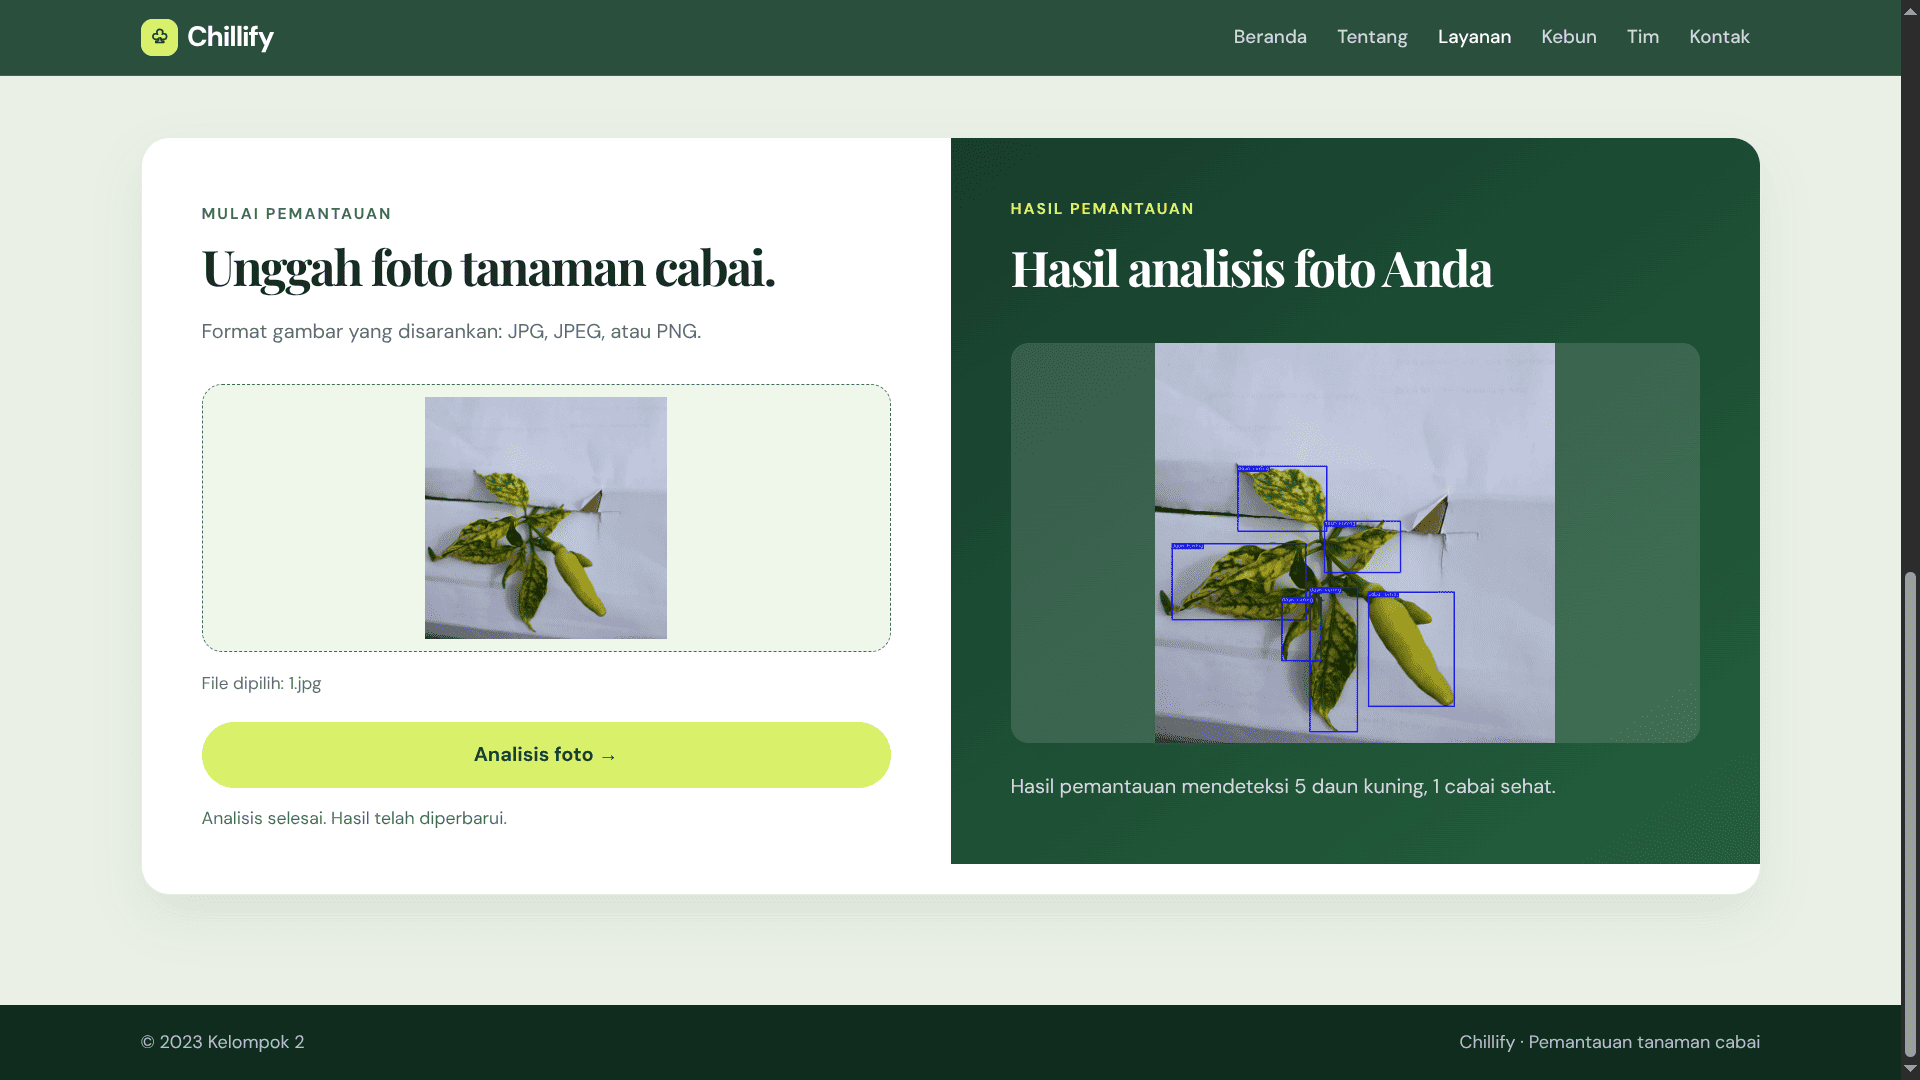
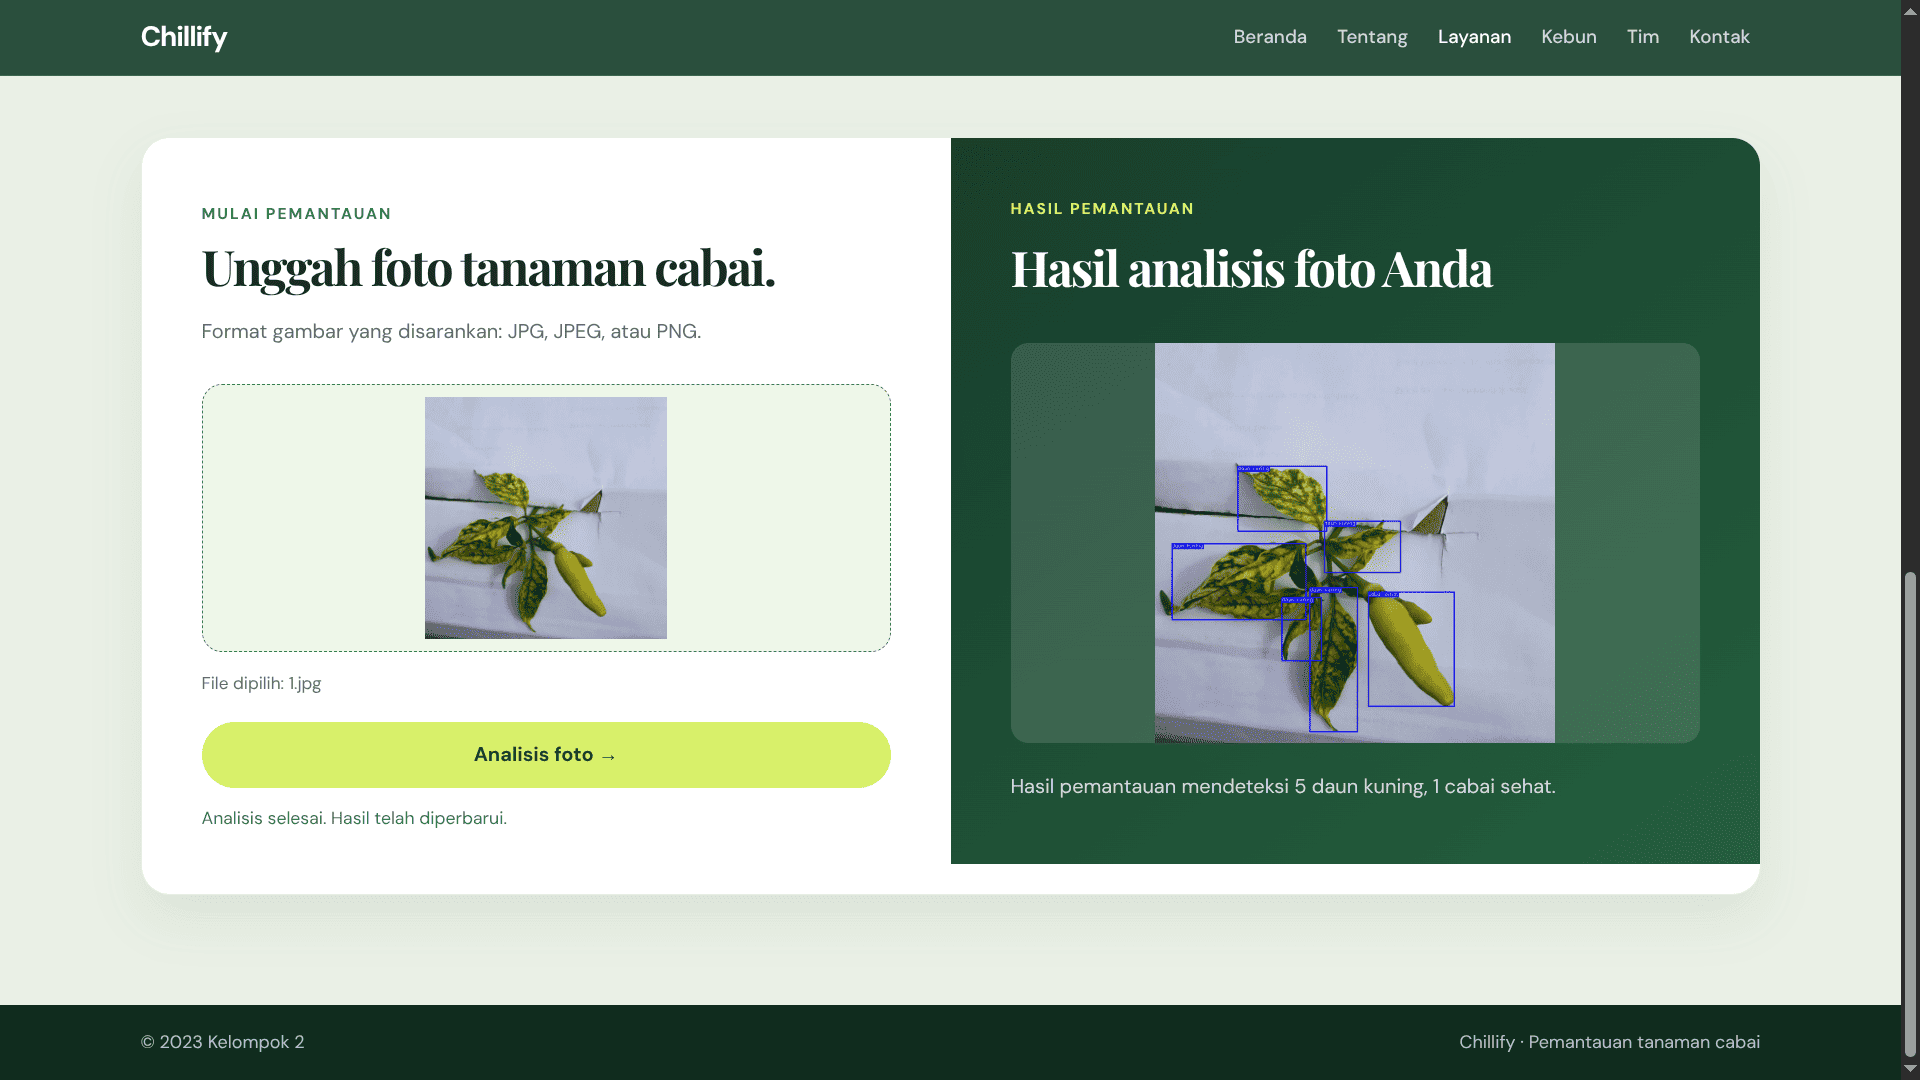
np6

diff --git a/templates/index.html b/templates/index.html
@@ -91,7 +91,7 @@
   <body>
     <nav class="navbar navbar-expand-lg navbar-dark fixed-top">
       <div class="container">
-        <a class="navbar-brand d-flex align-items-center" href="{{ url_for('index') }}"><span class="brand-mark" aria-hidden="true">♧</span>Chillify</a>
+        <a class="navbar-brand d-flex align-items-center" href="{{ url_for('index') }}">Chillify</a>
         <button class="navbar-toggler" type="button" data-bs-toggle="collapse" data-bs-target="#mainNavigation" aria-controls="mainNavigation" aria-expanded="false" aria-label="Buka navigasi"><span class="navbar-toggler-icon"></span></button>
         <div class="collapse navbar-collapse" id="mainNavigation">
           <ul class="navbar-nav ms-auto gap-lg-2">

diff --git a/templates/kebun.html b/templates/kebun.html
@@ -16,7 +16,7 @@
     </style>
   </head>
   <body>
-    <nav class="navbar navbar-expand-lg navbar-dark fixed-top"><div class="container"><a class="navbar-brand d-flex align-items-center" href="{{ url_for('index') }}"><span class="brand-mark" aria-hidden="true">♧</span>Chillify</a><button class="navbar-toggler" type="button" data-bs-toggle="collapse" data-bs-target="#mainNavigation" aria-controls="mainNavigation" aria-expanded="false" aria-label="Buka navigasi"><span class="navbar-toggler-icon"></span></button><div class="collapse navbar-collapse" id="mainNavigation"><ul class="navbar-nav ms-auto gap-lg-2"><li class="nav-item"><a class="nav-link" href="{{ url_for('index') }}">Beranda</a></li><li class="nav-item"><a class="nav-link" href="{{ url_for('tentang') }}">Tentang</a></li><li class="nav-item"><a class="nav-link" href="{{ url_for('layanan') }}">Layanan</a></li><li class="nav-item"><a class="nav-link active" aria-current="page" href="{{ url_for('kebun') }}">Kebun</a></li><li class="nav-item"><a class="nav-link" href="{{ url_for('tim') }}">Tim</a></li><li class="nav-item"><a class="nav-link" href="{{ url_for('kontak') }}">Kontak</a></li></ul></div></div></nav>
+    <nav class="navbar navbar-expand-lg navbar-dark fixed-top"><div class="container"><a class="navbar-brand d-flex align-items-center" href="{{ url_for('index') }}">Chillify</a><button class="navbar-toggler" type="button" data-bs-toggle="collapse" data-bs-target="#mainNavigation" aria-controls="mainNavigation" aria-expanded="false" aria-label="Buka navigasi"><span class="navbar-toggler-icon"></span></button><div class="collapse navbar-collapse" id="mainNavigation"><ul class="navbar-nav ms-auto gap-lg-2"><li class="nav-item"><a class="nav-link" href="{{ url_for('index') }}">Beranda</a></li><li class="nav-item"><a class="nav-link" href="{{ url_for('tentang') }}">Tentang</a></li><li class="nav-item"><a class="nav-link" href="{{ url_for('layanan') }}">Layanan</a></li><li class="nav-item"><a class="nav-link active" aria-current="page" href="{{ url_for('kebun') }}">Kebun</a></li><li class="nav-item"><a class="nav-link" href="{{ url_for('tim') }}">Tim</a></li><li class="nav-item"><a class="nav-link" href="{{ url_for('kontak') }}">Kontak</a></li></ul></div></div></nav>
     <main>
       <section class="hero"><div class="container"><div class="hero-content"><p class="eyebrow">Ruang belajar kebun</p><h1>Rawat cabai dari kebun, untuk hasil yang lebih baik.</h1><p class="hero-copy">Temukan panduan ringkas budidaya, kenali gejala umum pada tanaman, dan dapatkan inspirasi dari kebun cabai.</p><a class="btn btn-lime" href="#panduan">Lihat panduan <span aria-hidden="true">↓</span></a></div></div></section>
       <section id="panduan"><div class="container"><div class="row g-5 align-items-center"><div class="col-lg-6"><span class="section-label">Panduan budidaya</span><h2>Dasar perawatan cabai yang perlu diperhatikan.</h2><p class="section-copy">Mulai dengan langkah sederhana untuk membantu tanaman cabai tumbuh sehat dan produktif.</p><ol class="guide-list"><li><span class="list-number">1</span><span>Pilih varietas cabai yang sesuai dengan iklim dan kondisi tanah di lokasi Anda.</span></li><li><span class="list-number">2</span><span>Siapkan lahan yang subur dengan drainase baik, lalu tanam bibit pada jarak yang cukup.</span></li><li><span class="list-number">3</span><span>Berikan air dan pupuk secara teratur sesuai kebutuhan, tanpa membuat tanah terlalu basah.</span></li><li><span class="list-number">4</span><span>Amati tanaman secara rutin agar hama atau penyakit dapat diketahui lebih awal.</span></li><li><span class="list-number">5</span><span>Panen cabai ketika buah telah mencapai tingkat kematangan yang diinginkan.</span></li></ol></div><div class="col-lg-6"><div class="video-card"><iframe src="https://www.youtube.com/embed/De1RKJ8dAhw?si=vKP0wTq81WaESM9f" title="Panduan budidaya cabai" allowfullscreen></iframe><div class="video-caption">Butuh panduan lebih lengkap? Kunjungi <a href="https://kumparan.com/nanda-dc/panduan-cara-budidaya-cabai-untuk-pemula-lengkap/full" target="_blank" rel="noopener noreferrer">panduan budidaya cabai untuk pemula</a>.</div></div></div></div></div></section>

diff --git a/templates/kontak.html b/templates/kontak.html
@@ -10,7 +10,7 @@
     </style>
   </head>
   <body>
-    <nav class="navbar navbar-expand-lg navbar-dark fixed-top"><div class="container"><a class="navbar-brand d-flex align-items-center" href="{{ url_for('index') }}"><span class="brand-mark" aria-hidden="true">♧</span>Chillify</a><button class="navbar-toggler" type="button" data-bs-toggle="collapse" data-bs-target="#mainNavigation" aria-controls="mainNavigation" aria-expanded="false" aria-label="Buka navigasi"><span class="navbar-toggler-icon"></span></button><div class="collapse navbar-collapse" id="mainNavigation"><ul class="navbar-nav ms-auto gap-lg-2"><li class="nav-item"><a class="nav-link" href="{{ url_for('index') }}">Beranda</a></li><li class="nav-item"><a class="nav-link" href="{{ url_for('tentang') }}">Tentang</a></li><li class="nav-item"><a class="nav-link" href="{{ url_for('layanan') }}">Layanan</a></li><li class="nav-item"><a class="nav-link" href="{{ url_for('kebun') }}">Kebun</a></li><li class="nav-item"><a class="nav-link" href="{{ url_for('tim') }}">Tim</a></li><li class="nav-item"><a class="nav-link active" aria-current="page" href="{{ url_for('kontak') }}">Kontak</a></li></ul></div></div></nav>
+    <nav class="navbar navbar-expand-lg navbar-dark fixed-top"><div class="container"><a class="navbar-brand d-flex align-items-center" href="{{ url_for('index') }}">Chillify</a><button class="navbar-toggler" type="button" data-bs-toggle="collapse" data-bs-target="#mainNavigation" aria-controls="#mainNavigation" aria-expanded="false" aria-label="Buka navigasi"><span class="navbar-toggler-icon"></span></button><div class="collapse navbar-collapse" id="mainNavigation"><ul class="navbar-nav ms-auto gap-lg-2"><li class="nav-item"><a class="nav-link" href="{{ url_for('index') }}">Beranda</a></li><li class="nav-item"><a class="nav-link" href="{{ url_for('tentang') }}">Tentang</a></li><li class="nav-item"><a class="nav-link" href="{{ url_for('layanan') }}">Layanan</a></li><li class="nav-item"><a class="nav-link" href="{{ url_for('kebun') }}">Kebun</a></li><li class="nav-item"><a class="nav-link" href="{{ url_for('tim') }}">Tim</a></li><li class="nav-item"><a class="nav-link active" aria-current="page" href="{{ url_for('kontak') }}">Kontak</a></li></ul></div></div></nav>
     <main>
       <section class="hero"><div class="container"><p class="eyebrow">Hubungi kami</p><h1>Ada pertanyaan tentang Chillify?</h1><p class="hero-copy">Kirimkan pesan Anda. Kami terbuka untuk pertanyaan, masukan, dan percakapan seputar pemantauan tanaman cabai.</p></div></section>
       <section><div class="container"><div class="row align-items-end mb-4 mb-lg-5"><div class="col-lg-7"><span class="section-label">Informasi kontak</span><h2>Mari mulai percakapan.</h2></div><div class="col-lg-5"><p class="section-copy mb-0">Pilih kanal yang paling nyaman untuk menghubungi tim Chillify.</p></div></div><div class="row g-4"><div class="col-md-6"><article class="contact-card"><div class="contact-icon" aria-hidden="true">✉</div><h3>Email</h3><p>Untuk pertanyaan umum dan saran pengembangan.</p><a href="mailto:[email redacted]">[email redacted]</a></article></div><div class="col-md-6"><article class="contact-card"><div class="contact-icon" aria-hidden="true">⌕</div><h3>Telepon</h3><p>Hubungi kami untuk percakapan langsung.</p><a href="tel:[phone redacted]">[phone redacted]</a></article></div></div></div></section>

diff --git a/templates/layanan.html b/templates/layanan.html
@@ -27,7 +27,7 @@
     </style>
   </head>
   <body>
-    <nav class="navbar navbar-expand-lg navbar-dark fixed-top"><div class="container"><a class="navbar-brand d-flex align-items-center" href="{{ url_for('index') }}"><span class="brand-mark" aria-hidden="true">♧</span>Chillify</a><button class="navbar-toggler" type="button" data-bs-toggle="collapse" data-bs-target="#mainNavigation" aria-controls="mainNavigation" aria-expanded="false" aria-label="Buka navigasi"><span class="navbar-toggler-icon"></span></button><div class="collapse navbar-collapse" id="mainNavigation"><ul class="navbar-nav ms-auto gap-lg-2"><li class="nav-item"><a class="nav-link" href="{{ url_for('index') }}">Beranda</a></li><li class="nav-item"><a class="nav-link" href="{{ url_for('tentang') }}">Tentang</a></li><li class="nav-item"><a class="nav-link active" aria-current="page" href="{{ url_for('layanan') }}">Layanan</a></li><li class="nav-item"><a class="nav-link" href="{{ url_for('kebun') }}">Kebun</a></li><li class="nav-item"><a class="nav-link" href="{{ url_for('tim') }}">Tim</a></li><li class="nav-item"><a class="nav-link" href="{{ url_for('kontak') }}">Kontak</a></li></ul></div></div></nav>
+    <nav class="navbar navbar-expand-lg navbar-dark fixed-top"><div class="container"><a class="navbar-brand d-flex align-items-center" href="{{ url_for('index') }}">Chillify</a><button class="navbar-toggler" type="button" data-bs-toggle="collapse" data-bs-target="#mainNavigation" aria-controls="mainNavigation" aria-expanded="false" aria-label="Buka navigasi"><span class="navbar-toggler-icon"></span></button><div class="collapse navbar-collapse" id="mainNavigation"><ul class="navbar-nav ms-auto gap-lg-2"><li class="nav-item"><a class="nav-link" href="{{ url_for('index') }}">Beranda</a></li><li class="nav-item"><a class="nav-link" href="{{ url_for('tentang') }}">Tentang</a></li><li class="nav-item"><a class="nav-link active" aria-current="page" href="{{ url_for('layanan') }}">Layanan</a></li><li class="nav-item"><a class="nav-link" href="{{ url_for('kebun') }}">Kebun</a></li><li class="nav-item"><a class="nav-link" href="{{ url_for('tim') }}">Tim</a></li><li class="nav-item"><a class="nav-link" href="{{ url_for('kontak') }}">Kontak</a></li></ul></div></div></nav>
     <main>
       <section class="page-hero"><div class="container"><p class="eyebrow">Layanan deteksi</p><h1>Kenali kondisi daun cabai dari foto Anda.</h1><p class="hero-copy">Unggah foto daun cabai dan biarkan Chillify membantu memberikan gambaran awal mengenai kondisi tanaman Anda.</p></div></section>
       <section class="content-section"><div class="container"><div class="row align-items-end mb-4 mb-lg-5"><div class="col-lg-7"><span class="section-label">Tiga langkah mudah</span><h2>Pemantauan dimulai dari satu foto.</h2></div><div class="col-lg-5"><p class="section-copy mb-0">Siapkan foto daun yang cukup jelas agar sistem dapat memprosesnya dengan lebih baik.</p></div></div><div class="row g-4"><div class="col-md-4"><article class="step-card"><span class="step-number">01</span><h3>Pilih foto daun</h3><p>Gunakan foto daun cabai dengan objek terlihat jelas dan pencahayaan yang cukup.</p></article></div><div class="col-md-4"><article class="step-card"><span class="step-number">02</span><h3>Unggah ke Chillify</h3><p>Pilih file gambar dari perangkat Anda, lalu mulai proses pemantauan.</p></article></div><div class="col-md-4"><article class="step-card"><span class="step-number">03</span><h3>Lihat hasil analisis</h3><p>Hasil prediksi akan ditampilkan setelah sistem selesai memproses gambar.</p></article></div></div></div></section>

diff --git a/templates/tentang.html b/templates/tentang.html
@@ -57,7 +57,7 @@
   <body>
     <nav class="navbar navbar-expand-lg navbar-dark fixed-top">
       <div class="container">
-        <a class="navbar-brand d-flex align-items-center" href="{{ url_for('index') }}"><span class="brand-mark" aria-hidden="true">♧</span>Chillify</a>
+        <a class="navbar-brand d-flex align-items-center" href="{{ url_for('index') }}">Chillify</a>
         <button class="navbar-toggler" type="button" data-bs-toggle="collapse" data-bs-target="#mainNavigation" aria-controls="mainNavigation" aria-expanded="false" aria-label="Buka navigasi"><span class="navbar-toggler-icon"></span></button>
         <div class="collapse navbar-collapse" id="mainNavigation"><ul class="navbar-nav ms-auto gap-lg-2">
           <li class="nav-item"><a class="nav-link" href="{{ url_for('index') }}">Beranda</a></li><li class="nav-item"><a class="nav-link active" aria-current="page" href="{{ url_for('tentang') }}">Tentang</a></li><li class="nav-item"><a class="nav-link" href="{{ url_for('layanan') }}">Layanan</a></li><li class="nav-item"><a class="nav-link" href="{{ url_for('kebun') }}">Kebun</a></li><li class="nav-item"><a class="nav-link" href="{{ url_for('tim') }}">Tim</a></li><li class="nav-item"><a class="nav-link" href="{{ url_for('kontak') }}">Kontak</a></li>

diff --git a/templates/tim.html b/templates/tim.html
@@ -10,7 +10,7 @@
     </style>
   </head>
   <body>
-    <nav class="navbar navbar-expand-lg navbar-dark fixed-top"><div class="container"><a class="navbar-brand d-flex align-items-center" href="{{ url_for('index') }}"><span class="brand-mark" aria-hidden="true">♧</span>Chillify</a><button class="navbar-toggler" type="button" data-bs-toggle="collapse" data-bs-target="#mainNavigation" aria-controls="mainNavigation" aria-expanded="false" aria-label="Buka navigasi"><span class="navbar-toggler-icon"></span></button><div class="collapse navbar-collapse" id="mainNavigation"><ul class="navbar-nav ms-auto gap-lg-2"><li class="nav-item"><a class="nav-link" href="{{ url_for('index') }}">Beranda</a></li><li class="nav-item"><a class="nav-link" href="{{ url_for('tentang') }}">Tentang</a></li><li class="nav-item"><a class="nav-link" href="{{ url_for('layanan') }}">Layanan</a></li><li class="nav-item"><a class="nav-link" href="{{ url_for('kebun') }}">Kebun</a></li><li class="nav-item"><a class="nav-link active" aria-current="page" href="{{ url_for('tim') }}">Tim</a></li><li class="nav-item"><a class="nav-link" href="{{ url_for('kontak') }}">Kontak</a></li></ul></div></div></nav>
+    <nav class="navbar navbar-expand-lg navbar-dark fixed-top"><div class="container"><a class="navbar-brand d-flex align-items-center" href="{{ url_for('index') }}">Chillify</a><button class="navbar-toggler" type="button" data-bs-toggle="collapse" data-bs-target="#mainNavigation" aria-controls="mainNavigation" aria-expanded="false" aria-label="Buka navigasi"><span class="navbar-toggler-icon"></span></button><div class="collapse navbar-collapse" id="mainNavigation"><ul class="navbar-nav ms-auto gap-lg-2"><li class="nav-item"><a class="nav-link" href="{{ url_for('index') }}">Beranda</a></li><li class="nav-item"><a class="nav-link" href="{{ url_for('tentang') }}">Tentang</a></li><li class="nav-item"><a class="nav-link" href="{{ url_for('layanan') }}">Layanan</a></li><li class="nav-item"><a class="nav-link" href="{{ url_for('kebun') }}">Kebun</a></li><li class="nav-item"><a class="nav-link active" aria-current="page" href="{{ url_for('tim') }}">Tim</a></li><li class="nav-item"><a class="nav-link" href="{{ url_for('kontak') }}">Kontak</a></li></ul></div></div></nav>
     <main>
       <section class="hero"><div class="container"><p class="eyebrow">Di balik Chillify</p><h1>Berkenalan dengan tim yang menumbuhkan ide ini.</h1><p class="hero-copy">Kami adalah tim multidisiplin yang menggabungkan teknologi dan kepedulian terhadap pertanian untuk menghadirkan Chillify.</p></div></section>
       <section><div class="container"><div class="row align-items-end mb-4 mb-lg-5"><div class="col-lg-7"><span class="section-label">Anggota tim</span><h2>Kolaborasi dari berbagai keahlian.</h2></div><div class="col-lg-5"><p class="section-copy mb-0">Setiap anggota berkontribusi dalam merancang pengalaman pemantauan cabai yang mudah digunakan.</p></div></div><div class="row g-4">